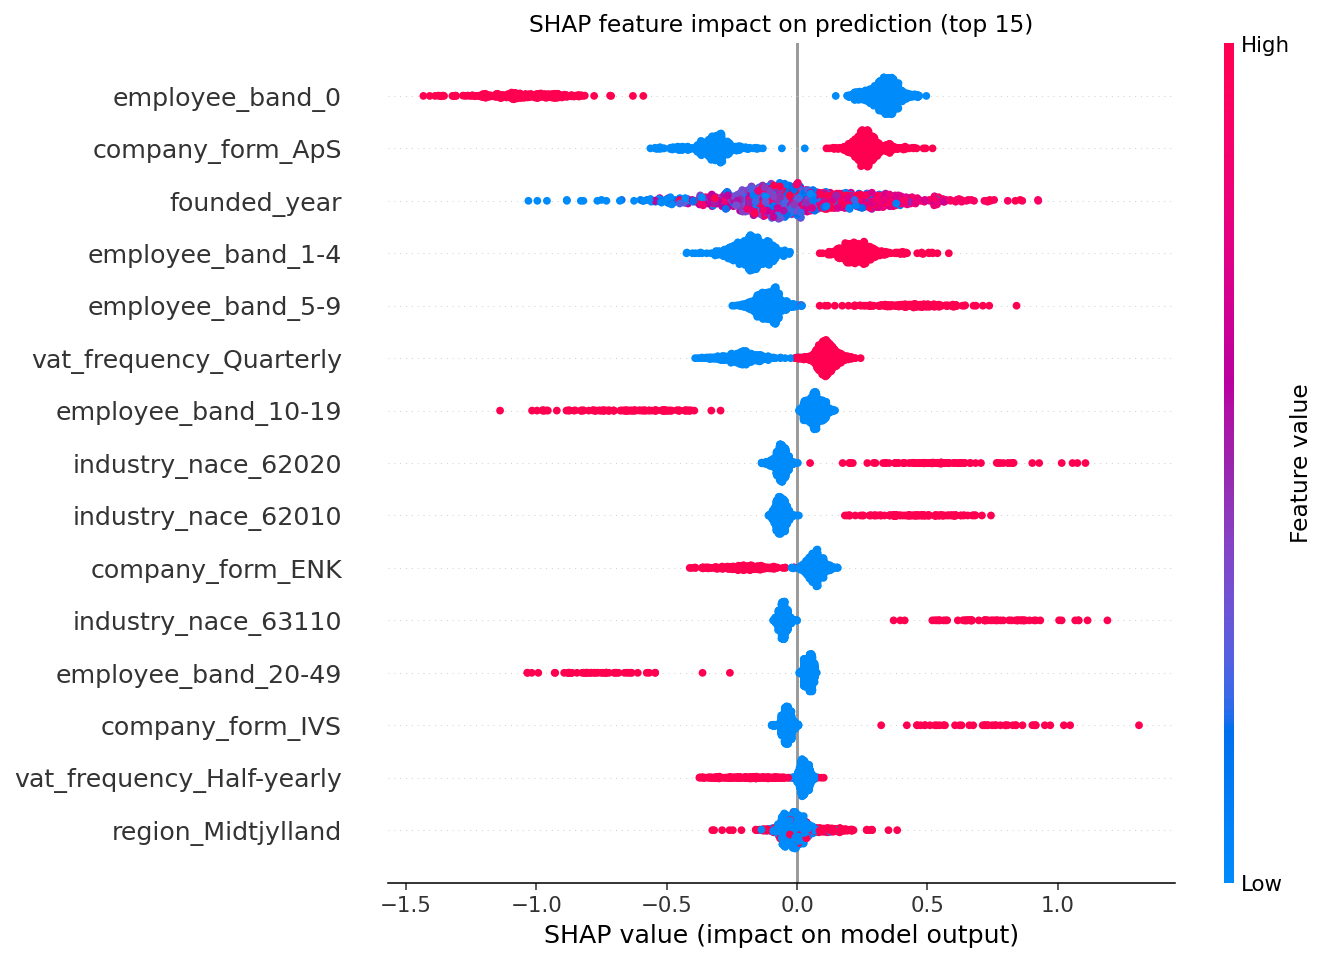
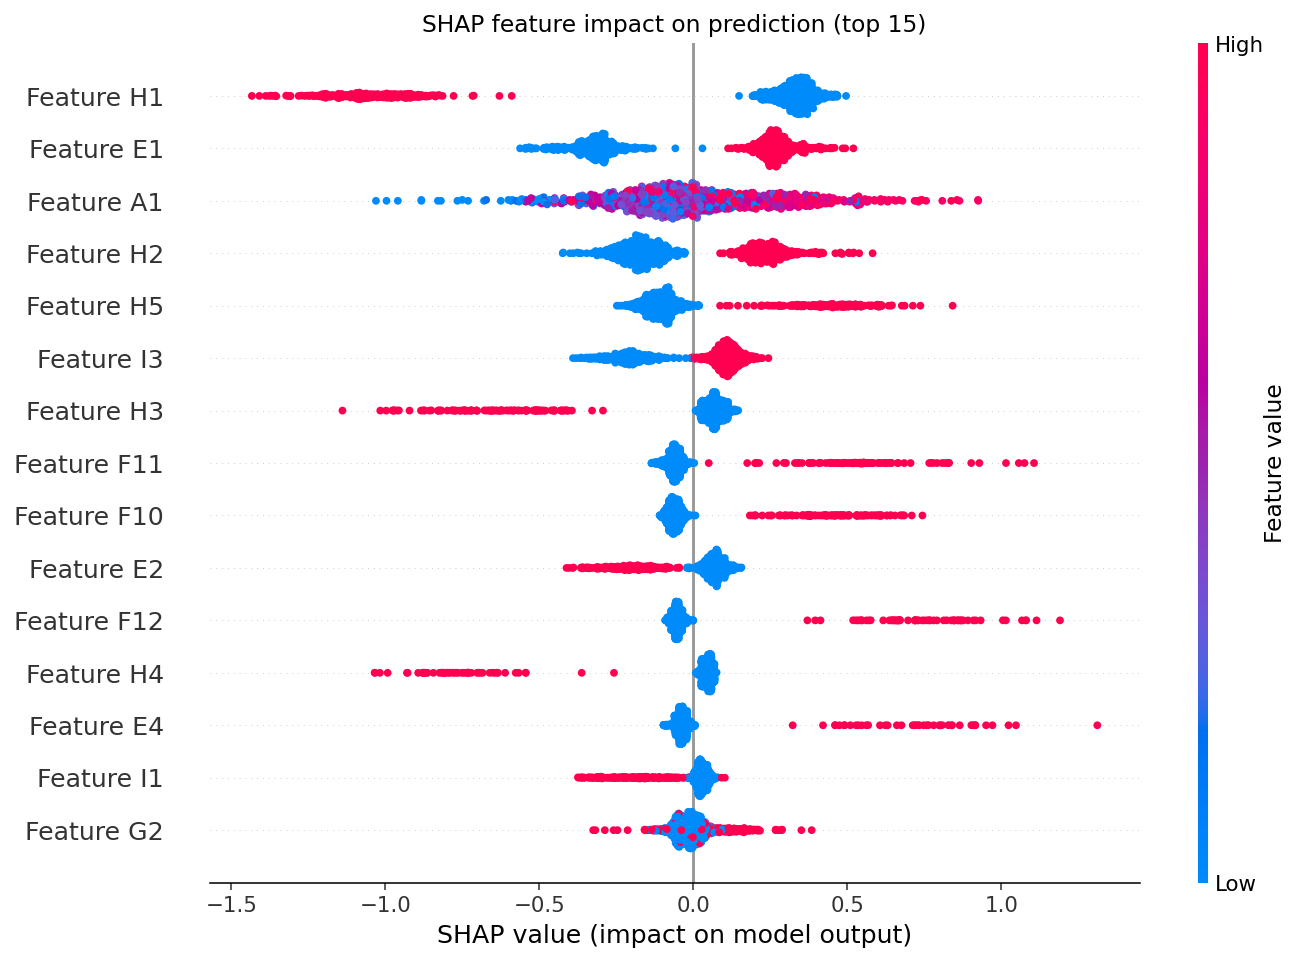
Anonymise SHAP plot + voice pass on ML case study
Replaces the real feature labels (employee_band_0, company_form_ApS,
industry_nace_62020, region_Midtjylland, etc.) with generic Feature H1, E1,
A1... labels. Same trained model, same SHAP values, no public exposure of
the production schema.

Voice pass on the case study: removed all em-dashes, replaced with periods
or restructured sentences per voice profile. Caption updated to note the
anonymisation and describe the real feature families (size, legal form,
age, industry, filing cadence) without naming codes.

diff --git a/_projects/05-software-detection-ml.md b/_projects/05-software-detection-ml.md
@@ -32,7 +32,7 @@ Most SMB sales teams burn outbound capacity on companies that aren't a fit. The 
 
 For this team specifically:
 
-- The CRM had labelled outcomes — companies known to use the target software, companies known to use a competitor — but no way to score new prospects against those labels.
+- The CRM had labelled outcomes for companies known to use the target software and companies known to use a competitor. There was no way to score new prospects against those labels.
 - Buying the signal externally cost more per record than the expected revenue per dial.
 - The dialler ran on autopilot. Manual prospecting before the queue loaded would have eaten the time-saving the autopilot was designed to give. Whatever ranking the queue had at 9am was what reps worked that day.
 
@@ -42,7 +42,7 @@ Can the label be predicted from public Danish company-registry data alone, well 
 
 Four problems the model had to solve:
 
-**Predict.** Get an accuracy that's worth deploying. Not 99%, not "high accuracy" — a real number on a real holdout. Anything that meaningfully outperforms random gives the team a queue reorder worth caring about.
+**Predict.** Get an accuracy that's worth deploying. Not 99%, not "high accuracy." A real number on a real holdout. Anything that meaningfully outperforms random gives the team a queue reorder worth caring about.
 
 **Explain.** A sales rep working a flagged lead wants to know *why* the model flagged it. Black-box scores get ignored. The model needs to surface, per prediction, which features pushed the score up.
 
@@ -59,16 +59,16 @@ Four problems the model had to solve:
 
 The schema is normalised. Each row is one company, one label, one timestamp. No duplicates, no future information leaking into past records. Categorical columns typed as enums so the same value can't appear in five spellings.
 
-**The model.** XGBoost binary classifier on 14 cold-observable features. 4,658 deduplicated training rows. The split between positive (uses target software) and negative was almost balanced — 2,275 vs 2,383 — so no class weighting needed.
+**The model.** XGBoost binary classifier on 14 cold-observable features. 4,658 deduplicated training rows. The split between positive (uses target software) and negative was almost balanced at 2,275 vs 2,383. No class weighting needed.
 
 Why XGBoost over logistic regression. Logistic regression assumes additive log-odds and handles feature interactions only through manual engineering. Tree ensembles pick interactions up natively and tolerate the mix of categorical and numeric features. I trained both. The tree ensemble landed roughly 5 AUC points higher on the same holdout.
 
-![SHAP feature impact — top 15 features]({{ '/assets/images/projects/software-detection-ml-shap.png' | relative_url }})
-*SHAP impact distribution per feature. Each dot is one prediction. Position on the x-axis shows whether that feature pushed the score up (uses target software) or down. Colour shows the feature value. Employee band, company form, founded year, and VAT frequency carry most of the signal.*
+![SHAP feature impact: top 15 features]({{ '/assets/images/projects/software-detection-ml-shap.png' | relative_url }})
+*SHAP impact distribution per feature. Each dot is one prediction. Position on the x-axis shows whether that feature pushed the score up (uses target software) or down. Colour shows the feature value. Feature names are anonymised in the public version. The real schema is grouped by company size, legal form, age, industry, and filing cadence.*
 
 **The evaluation.** I evaluated the model at five levels, not just AUC:
 
-- **ROC and AUC.** Holdout AUC 0.7475, cross-validation 0.7046. Permutation test p < 0.0001 — the model is meaningfully better than random.
+- **ROC and AUC.** Holdout AUC 0.7475, cross-validation 0.7046. Permutation test p < 0.0001. The model is meaningfully better than random.
 - **Confusion matrix at threshold 0.5.** False-positive rate inside acceptable range for downstream use.
 - **Precision-recall.** Top-decile precision answers the operational question.
 - **Probability calibration.** A score of 0.7 should mean roughly a 70% positive rate. If miscalibrated, the +15 score boost downstream gets miscalibrated too.
@@ -78,8 +78,8 @@ The top features are unsurprising on their own: employee band, company form, VAT
 
 ## The outcome
 
-![Probability calibration plot — predicted vs actual]({{ '/assets/images/projects/software-detection-ml-calibration.png' | relative_url }})
-*Calibration check: predicted probabilities track actual positive rates closely enough that the downstream score boost stays honest.*
+![Probability calibration plot: predicted vs actual]({{ '/assets/images/projects/software-detection-ml-calibration.png' | relative_url }})
+*Calibration check. Predicted probabilities track actual positive rates closely enough that the downstream score boost stays honest.*
 
 The model sits inside the lead-scoring pipeline. Companies above threshold get a +15 score boost before they reach the dialler queue. The dialler runs on autopilot, so the queue order is what gets worked. Every morning, the highest-probability prospects move to the top automatically. Retraining is monthly, triggered by a GitHub Actions workflow that fires when new labelled outcomes arrive in the CRM.
 
@@ -89,7 +89,7 @@ The numbers that matter: 4,658 training rows, 14 features, holdout AUC 0.7475, p
 
 ## What I'd do differently
 
-The first version was a 3-class model. I wanted to distinguish three accounting products at once. The two minority classes were indistinguishable from cold registry features alone — the model collapsed to AUC 0.527, barely above random. I dropped to binary (target product yes/no), which unlocked the full 4,658 training rows and gave the model something it could actually learn.
+The first version was a 3-class model. I wanted to distinguish three accounting products at once. The two minority classes were indistinguishable from cold registry features alone. The model collapsed to AUC 0.527, barely above random. I dropped to binary (target product yes/no), which unlocked the full 4,658 training rows and gave the model something it could actually learn.
 
 One feature, `has_revisor` (whether the company has an external auditor on file), only had 4,241 of 4,658 rows populated. I imputed the missing 8%. If I rebuilt the pipeline I'd scrape the missing records from the CVR website directly before training, not after.
 
